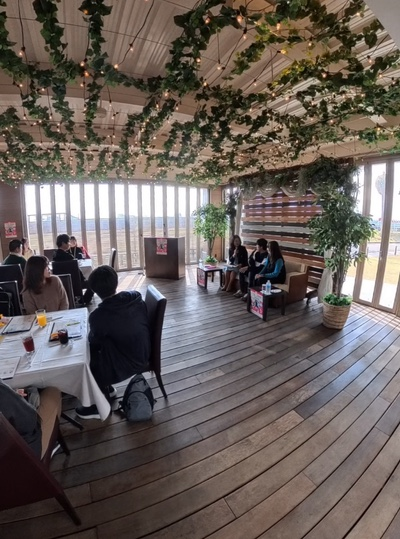
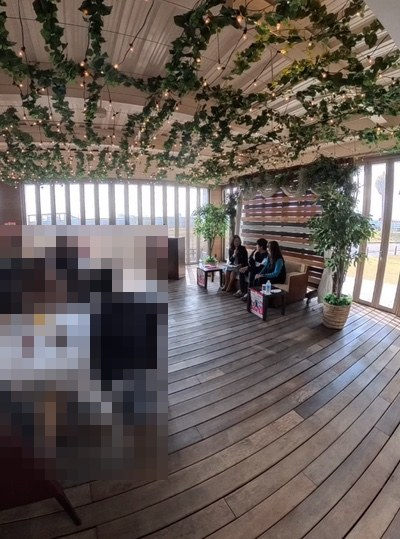
みや恋セミナー会場写真の受講者にモザイク

Changed region(s): [[0.0, 0.4156, 0.42, 0.8609]]

diff --git a/index.html b/index.html
@@ -513,7 +513,7 @@
         <figcaption>宮崎市「みや恋」ライフデザインセミナーに登壇</figcaption>
       </figure>
       <figure>
-        <img src="./img/miyakoi-venue.jpg" alt="みや恋セミナーの会場（宮崎観光ホテル）" loading="lazy">
+        <img src="./img/miyakoi-venue.jpg?v=20260929m" alt="みや恋セミナーの会場（宮崎観光ホテル）" loading="lazy">
         <figcaption>セミナー会場（宮崎観光ホテル）</figcaption>
       </figure>
       <figure>
